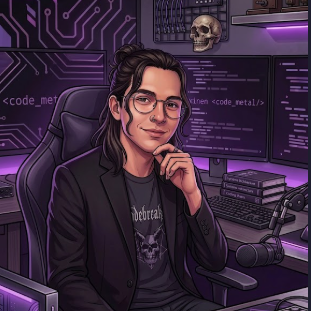
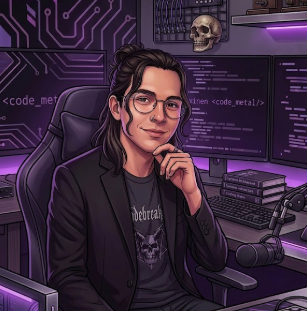
Mejora legibilidad del código y errores mínimos en el diseño.

diff --git a/src/App.css b/src/App.css
@@ -20,15 +20,12 @@ body {
   min-height: 100vh;
 }
 
-img {
-  width: 250px;
-  height: 250px;
-  border-radius: 50%;
-  object-fit: cover;
-  padding: 5px;
-  border: 5px solid var(--morado-botones);
+.app-body {
+  display: flex;
+  flex: 1;
 }
 
+/* HEADER Y FOOTER */
 .Cabecera {
   display: flex;
   flex-direction: row;
@@ -75,10 +72,17 @@ img {
   text-decoration: underline;
 }
 
-.app-body {
-  display: flex;
-  flex: 1;
+footer {
+  background-color: var(--fondo-principal);
+  padding: 15px;
+  color: var(--texto-suave);
+  font-size: 0.9rem;
+  border-top: 2px solid var(--barra-lateral);
+  text-align: center;
 }
+
+
+/* BARRA LATERAL */
 
 .sidebar-main {
   width: 260px;
@@ -116,14 +120,16 @@ img {
   font-weight: 600;
 }
 
+
+/* CONTENIDO */
 .seccion {
   display: flex;
   flex: 1;
-  padding: 50px 60px;
+  padding: 50px 250px;
   background-color: var(--fondo-principal);
   flex-direction: column;
-  align-items: flex-start;
-  max-width: 1000px;
+  align-items: stretch;
+  max-width: 1200px;
 }
 
 .seccion h2{
@@ -131,19 +137,103 @@ img {
   margin-bottom: 30px;
   color: var(--barra-lateral);
   position: relative;
+  text-align: center;
 }
 
 .seccion p {
   color: var(--texto-oscuro);
 }
 
-footer {
+.contenedor-tarjetas {
+  display: flex;
+  flex-direction: row;
+  gap: 20px;
+  width: 100%;
+  max-width: 100%;
+  margin-top: 15px;
+  align-items: stretch;
+}
+
+.tarjeta-contenido {
+  flex: 1;
+}
+
+.tarjeta-img {
+  width: 80px;
+  height: 80px;
+  border-radius: 10px;
+  object-fit: contain;
   background-color: var(--fondo-principal);
+  padding: 5px;
+}
+
+.tarjeta-informacion {
+  background-color: var(--texto-blanco);
+  border: 1px solid #e0e0e0;
+  border-radius: 12px;
   padding: 20px;
-  color: var(--texto-suave);
-  font-size: 0.9rem;
-  border-top: 2px solid var(--barra-lateral);
+  box-shadow: 0 4px 15px rgba(0, 0, 0, 0.05);
+  transition: transform 0.2s ease, box-shadow 0.2s ease;
+  flex: 1;
+  display: flex;
+  flex-direction: column;
+  align-items: center;
   text-align: center;
+  gap: 12px;
+}
+
+.tarjeta-informacion:hover {
+  transform: translateY(-2px);
+  box-shadow: 0 6px 20px rgba(0, 0, 0, 0.08);
+}
+
+.tarjeta-informacion h3 {
+  margin: 0 0 8px 0;
+  color: var(--texto-oscuro);
+  font-size: 1.2rem;
+}
+
+.tarjeta-informacion h4 {
+  margin: 0 0 10px 0;
+  color: var(--morado-botones);
+  font-size: 1rem;
+  font-weight: 600;
+}
+
+.tarjeta-informacion p {
+  margin: 0;
+  color: var(--texto-suave);
+  font-size: 0.95rem;
+  line-height: 1.5;
+}
+
+.habilidades-grid {
+  display: flex;
+  gap: 8px;
+  flex-wrap: wrap;
+  justify-content: center;
+  margin-top: 10px;
+}
+
+.badge-habilidad {
+  background-color: var(--fondo-principal);
+  color: var(--texto-oscuro);
+  border: 1px solid #e0e0e0;
+  padding: 8px 14px;
+  border-radius: 8px;
+  font-size: 0.9rem;
+  font-weight: 500;
+  box-shadow: 0 1px 3px rgba(0, 0, 0, 0.02);
+}
+
+.img_inicio{
+  width: 500px;
+  height: 500px;
+  border-radius: 5%;
+  object-fit: cover;
+  padding: 2px;
+  border: 5px solid var(--barra-lateral);
+  flex-shrink: 0;
 }
 
 /* FORMULARIO DE CONTACTO */
@@ -152,11 +242,10 @@ footer {
     background-color: var(--texto-blanco);
     border: 1px solid #e0e0e0;
     border-radius: 12px;
-    padding: 40px;
+    padding: 40px 300px;
     width: 100%;
-    max-width: 600px;
+    max-width: 500px;
     box-shadow: 0 4px 15px rgba(0, 0, 0, 0.05);
-    margin-top: 20px;
 }
 
 .form-group {
@@ -195,7 +284,7 @@ footer {
     border: 1px solid #ccc;
     width: 100%;
     font-size: 1rem;
-    resize: vertical;
+    resize: none;
     font-family: inherit;
 }
 
@@ -275,35 +364,49 @@ footer {
     max-width: 600px;
     text-align: center;
     font-weight: 500;
+    align-items: center;
 }
 
 
 
-
-
-
-
-
-.contenedor-tarjetas {
+/* PERFIL */
+.perfil-contenedor{
   display: flex;
-  flex-direction: column;
-  gap: 20px;
+  flex-direction: row;
+  align-items: center;
+  gap: 40px;
   width: 100%;
-  max-width: 600px;
+  max-width: 900px;
   margin-top: 20px;
 }
 
-.tarjeta-contenido {
+.perfil-texto {
   flex: 1;
 }
 
-.tarjeta-img {
-  width: 80px;
-  height: 80px;
-  border-radius: 10px;
-  object-fit: contain;
-  background-color: var(--fondo-principal);
+.perfil-texto p {
+  font-size: 1.1rem;
+  line-height: 1.6;
+  color: var(--texto-oscuro);
+  margin: 0;
+}
+
+.perfil-foto {
+  width: 250px;
+  height: 250px;
+  border-radius: 50%;
+  object-fit: cover;
   padding: 5px;
+  border: 5px solid var(--morado-botones);
+  flex-shrink: 0;
+}
+
+@media (max-width: 650px){
+  .perfil-contenedor{
+    flex-direction: column;
+    text-align: center;
+    gap: 20px;
+  }
 }
 
 @media (max-width: 480px) {
@@ -312,64 +415,9 @@ footer {
     align-items: flex-start;
     gap: 15px;
   }
+  
   .tarjeta-img {
     width: 60px;
     height: 60px;
   }
-}
-
-.tarjeta-informacion {
-  background-color: var(--texto-blanco);
-  border: 1px solid #e0e0e0;
-  border-radius: 12px;
-  padding: 30px;
-  box-shadow: 0 4px 15px rgba(0, 0, 0, 0.05);
-  transition: transform 0.2s ease, box-shadow 0.2s ease;
-  display: flex;
-  flex-direction: row;
-  align-items: center;
-  gap: 25px;
-}
-
-.tarjeta-informacion:hover {
-  transform: translateY(-2px);
-  box-shadow: 0 6px 20px rgba(0, 0, 0, 0.08);
-}
-
-.tarjeta-informacion h3 {
-  margin: 0 0 8px 0;
-  color: var(--texto-oscuro);
-  font-size: 1.2rem;
-}
-
-.tarjeta-informacion h4 {
-  margin: 0 0 10px 0;
-  color: var(--morado-botones);
-  font-size: 1rem;
-  font-weight: 600;
-}
-
-.tarjeta-informacion p {
-  margin: 0;
-  color: var(--texto-suave);
-  font-size: 0.95rem;
-  line-height: 1.5;
-}
-
-.habilidades-grid {
-  display: flex;
-  gap: 10px;
-  flex-wrap: wrap;
-  margin-top: 15px;
-}
-
-.badge-habilidad {
-  background-color: var(--fondo-principal);
-  color: var(--texto-oscuro);
-  border: 1px solid #e0e0e0;
-  padding: 8px 14px;
-  border-radius: 8px;
-  font-size: 0.9rem;
-  font-weight: 500;
-  box-shadow: 0 1px 3px rgba(0, 0, 0, 0.02);
 }

diff --git a/src/components/perfil.jsx b/src/components/perfil.jsx
@@ -1,14 +1,18 @@
 function Perfil(){
     return (
-        <div>
+        <div className="seccion">
+            <h2>Perfil profesional</h2>
+            <div className="perfil-contenedor">
+                <img src="/src/assets/icon.png" alt="Profile Picture" className="perfil-foto"/>
+                <div className="perfil-texto">
+                    <p>
+                        Estudiante del programa Tecnólogo Análisis y Desarrollo de Software con solidos conocimientos en programación, lógica computacional, y soporte técnico
+                    </p>
+                </div>
 
-            <section class='seccion'>
-                <h2>Perfil profesional</h2>
-                <img src="/src/assets/icon.png" alt="Profile Picture"/><br/>
-                <p>Estudiante del programa Tecnólogo Análisis y Desarrollo de Software con solidos conocimientos en programación, lógica computacional, y soporte técnico</p>
-            </section>
+            </div>
         </div>
     );
 }
 
-export default Perfil;
+export default Perfil;  

diff --git a/src/App.jsx b/src/App.jsx
@@ -7,7 +7,7 @@ import Habilidades from './components/habilidades.jsx';
 import Contacto from './components/contacto.jsx';
 import './App.css'
 
-function App() {
+function App() { 
   const [seccion, setSeccion] = useState('inicio');
 
   const renderSeccion = () => {
@@ -39,7 +39,7 @@ function App() {
             Gabriel Santiago Melo González
           </span>
 
-          <a className='link-github' href="https://github.com/GabrielM7766/curriculum-vitae-react" target='_blank' rel="noreferrer">
+          <a className='link_github' href="https://github.com/GabrielM7766/curriculum-vitae-react" target='_blank' rel="noreferrer">
             Enlace Github
           </a>
           </header>

diff --git a/backend/server.js b/backend/server.js
@@ -8,7 +8,7 @@ app.use(cors());
 app.use(express.json());
 
 
-const MONGO_URI = 'mongodb://gabrielm78_db_user:gBsSmRgCpSjeje@ac-zri4qzd-shard-00-00.iwdcipa.mongodb.net:27017,ac-zri4qzd-shard-00-01.iwdcipa.mongodb.net:27017,ac-zri4qzd-shard-00-02.iwdcipa.mongodb.net:27017/?ssl=true&replicaSet=atlas-46obm0-shard-0&authSource=admin&appName=Cluster0';
+const MONGO_URI = 'mongodb://gabrielm78_db_user:gBsSmRgCpSjeje@ac-zri4qzd-shard-00-00.iwdcipa.mongodb.net:27017,ac-zri4qzd-shard-00-01.iwdcipa.mongodb.net:27017,ac-zri4qzd-shard-00-02.iwdcipa.mongodb.net:27017/curriculum?ssl=true&replicaSet=atlas-46obm0-shard-0&authSource=admin&appName=Cluster0';
 
 
 mongoose.connect(MONGO_URI)

diff --git a/src/components/contacto.jsx b/src/components/contacto.jsx
@@ -55,7 +55,7 @@ return (
     <h2>Contacto</h2>
 
     {mensajeEnviado &&(
-    <div className="msj">
+    <div className="msj_exito">
         ¡ Su mensaje ha sido enviado correctamente !
     </div>
     )}
